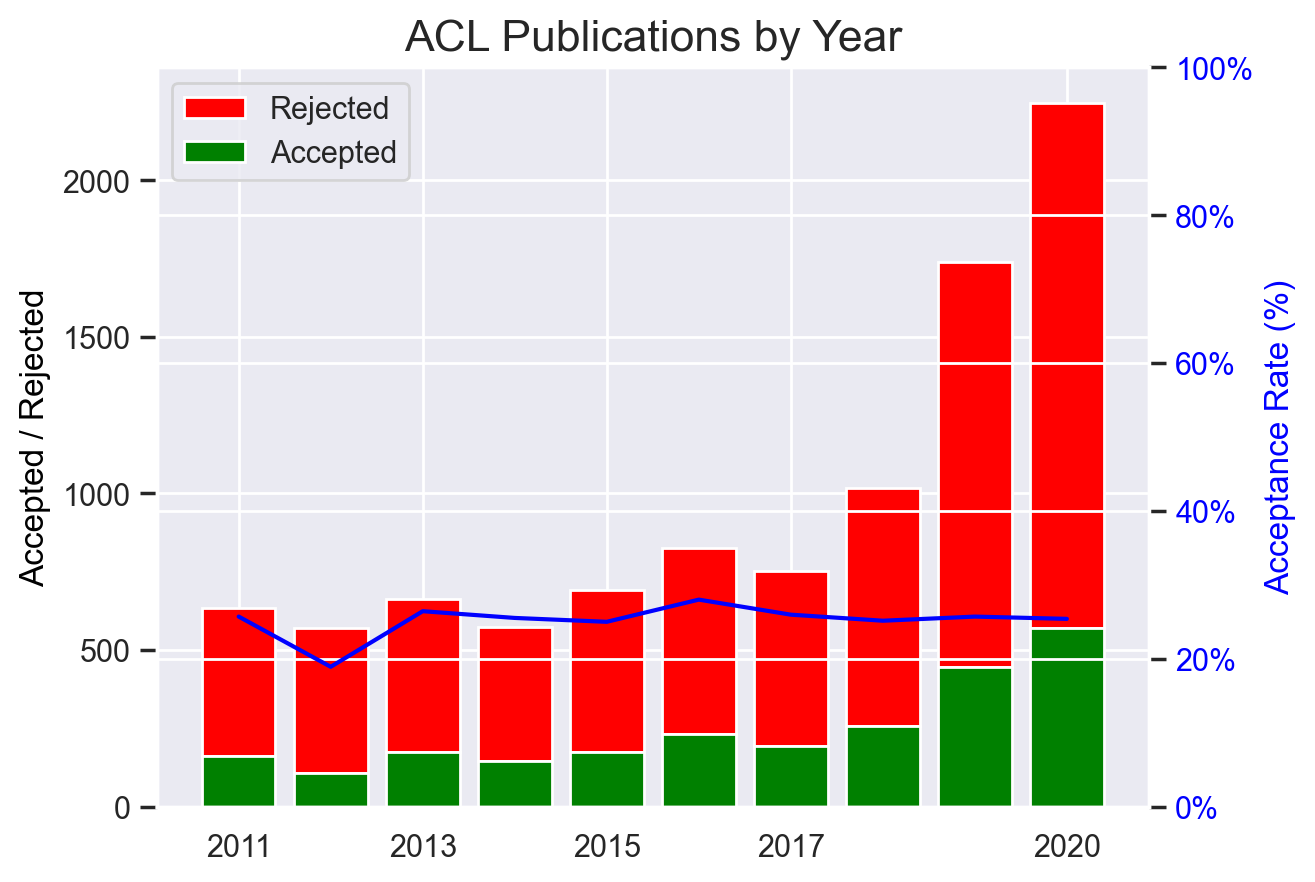
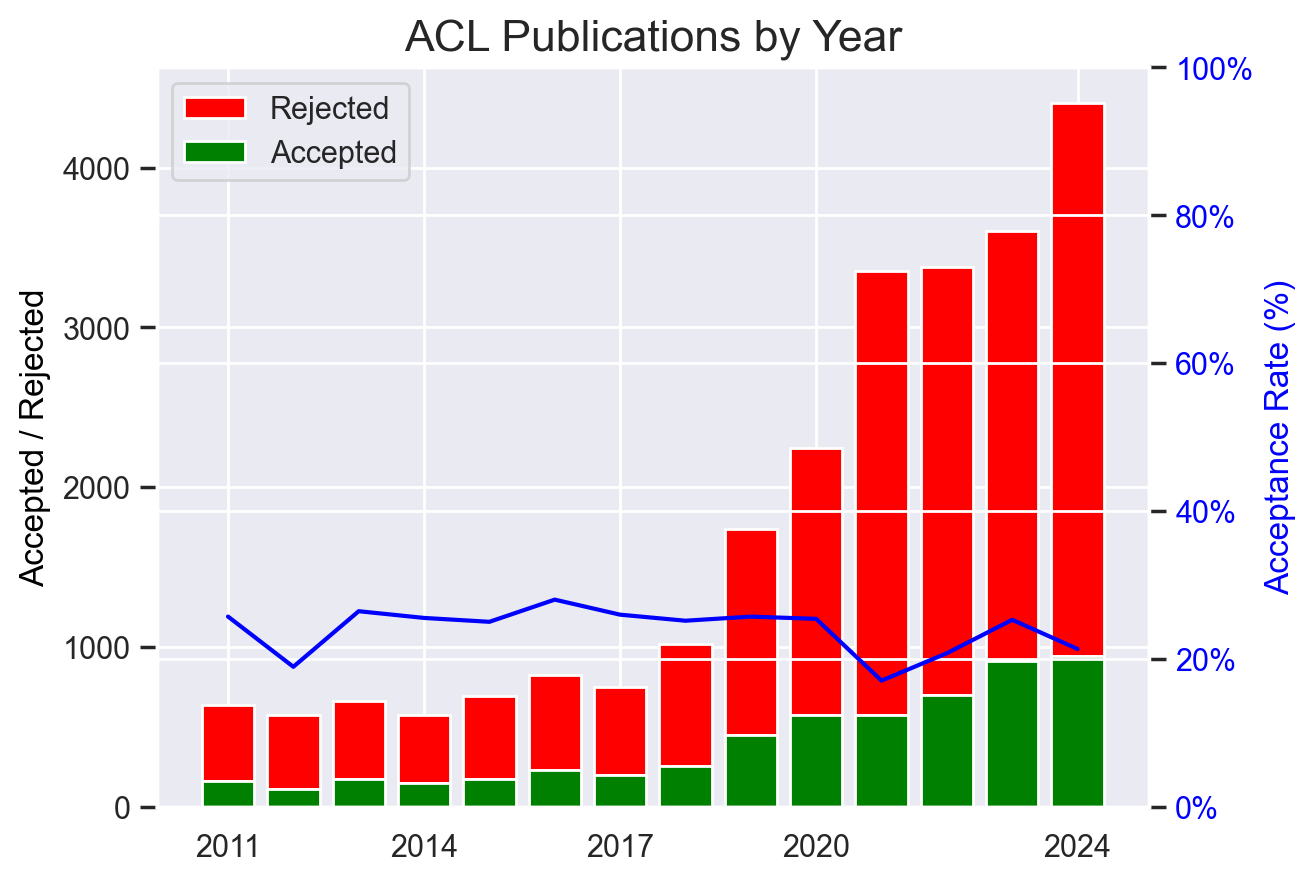
Updated NLP

diff --git a/README.md b/README.md
@@ -173,11 +173,11 @@
 </summary>
 <A NAME="ACL"></A>
 <P><B><A HREF="https://dblp.org/db/conf/acl/index.html">ACL</A></B>
- <em>mean acceptance rate, last 5 years: 26%</em></P>
+ <em>mean acceptance rate, last 5 years: 22%</em></P>
 <IMG SRC="https://github.com/emeryberger/csconferences/blob/main/graphs/ACL.png?raw=true" WIDTH="500">
 <A NAME="EMNLP"></A>
 <P><B><A HREF="https://dblp.org/db/conf/emnlp/index.html">EMNLP</A></B>
- <em>mean acceptance rate, last 5 years: 25%</em></P>
+ <em>mean acceptance rate, last 5 years: 23%</em></P>
 <IMG SRC="https://github.com/emeryberger/csconferences/blob/main/graphs/EMNLP.png?raw=true" WIDTH="500">
 </details>
 <details>
